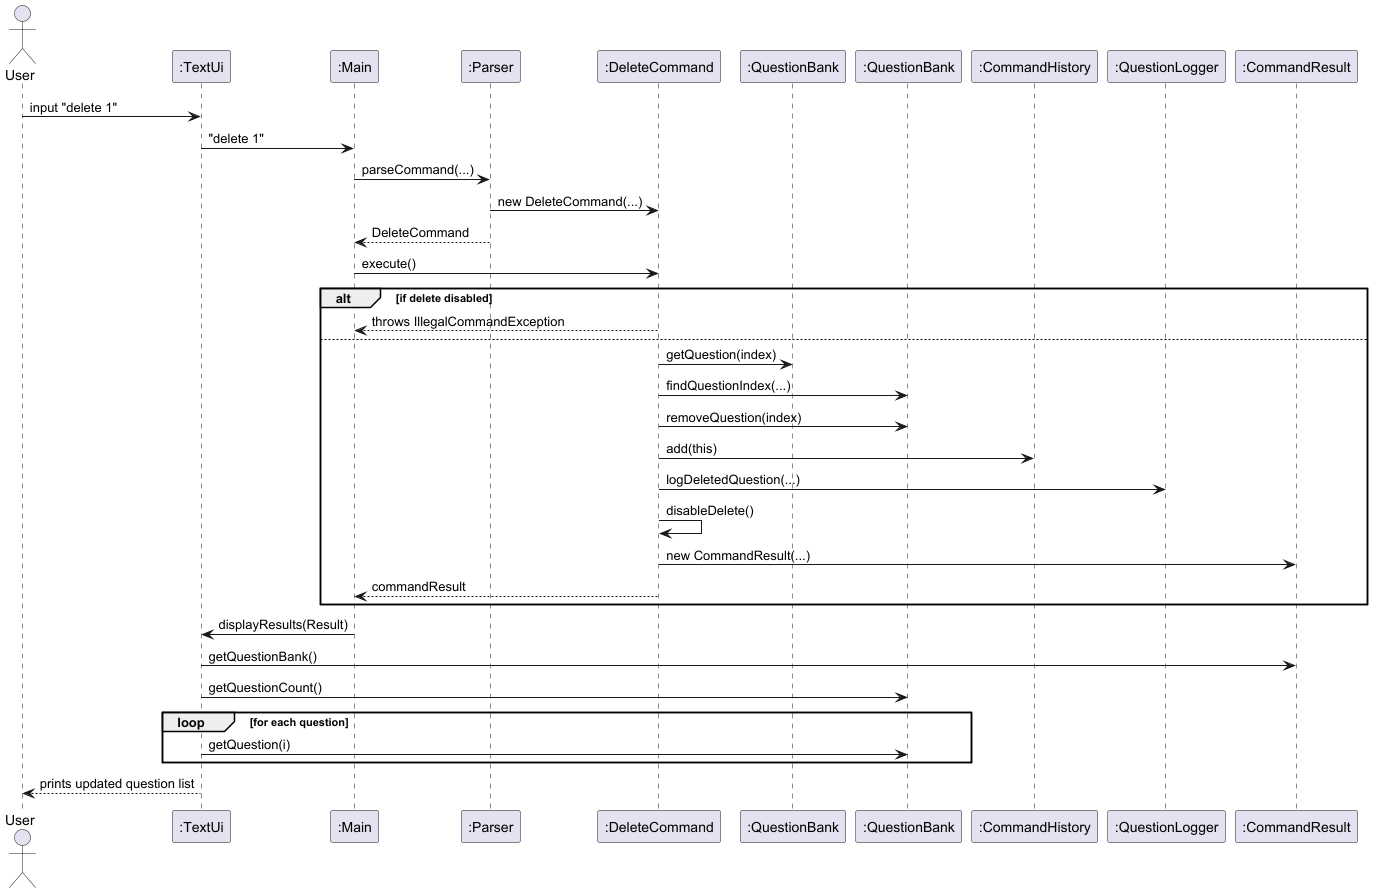
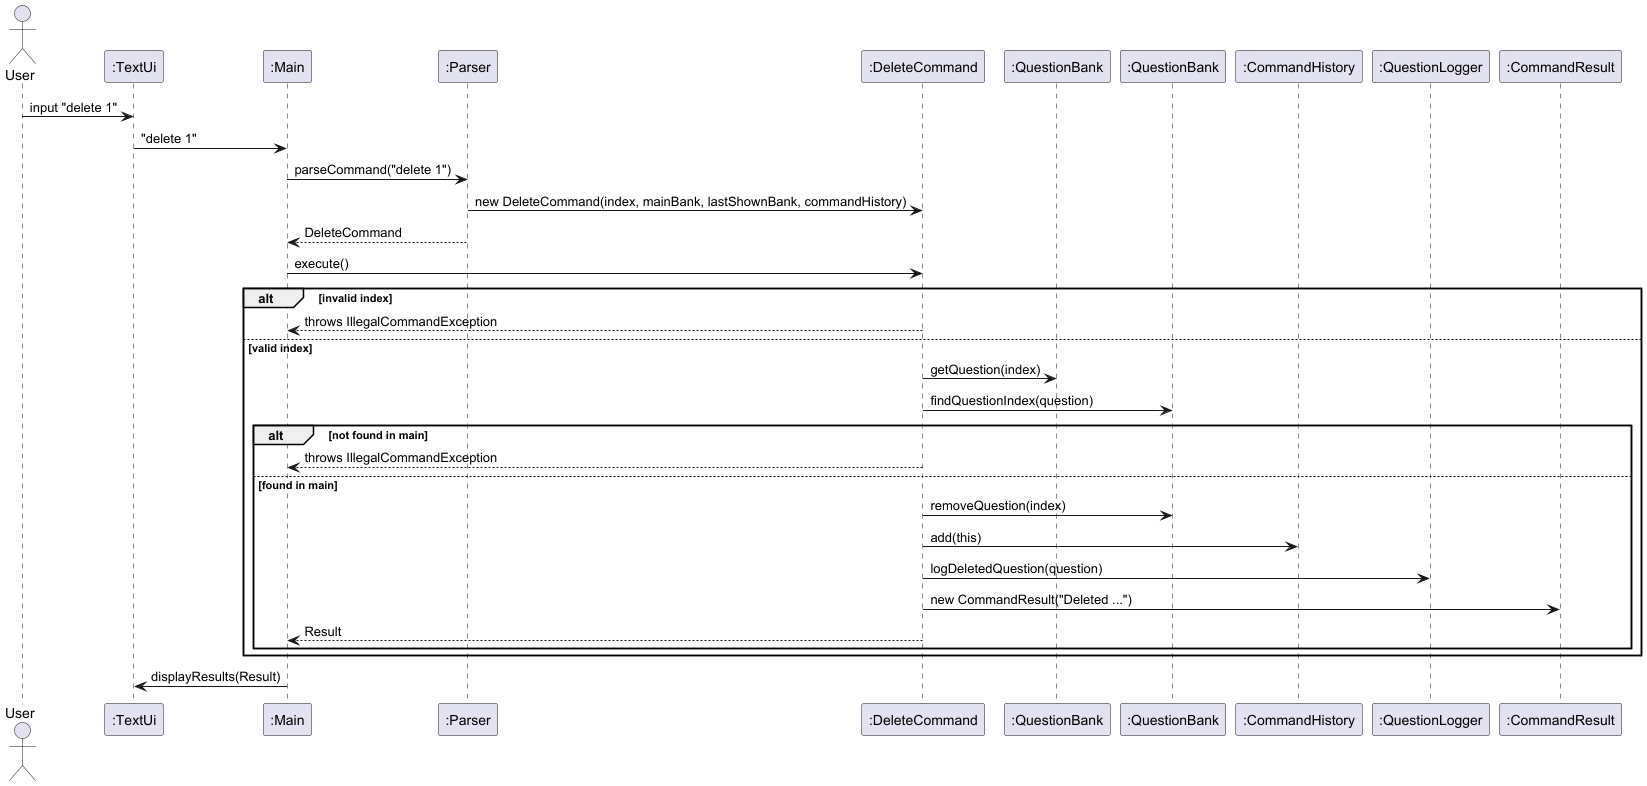
Refactors parser Updates docs

diff --git a/src/main/java/mindexpander/parser/Parser.java b/src/main/java/mindexpander/parser/Parser.java
@@ -63,17 +63,40 @@ public class Parser {
         case "list" -> handleList(userEntry, taskDetails, questionBank);
         case "find" -> handleFind(userEntry, taskDetails, questionBank);
         case "edit" -> handleEdit(userEntry, taskDetails, questionBank, lastShownQuestionBank, commandHistory);
-        case "delete" -> DeleteCommand.parseFromUserInput(taskDetails, questionBank,
-            lastShownQuestionBank, commandHistory);
+        case "delete" -> handleDelete(userEntry, taskDetails, questionBank, lastShownQuestionBank, commandHistory);
         case "undo" -> new UndoCommand(commandHistory);
         case "redo" -> new RedoCommand(commandHistory);
         case "show" -> handleShow(userEntry, taskDetails, questionBank, lastShownQuestionBank);
-        case "clear" -> ClearCommand.parseFromUserInput(taskDetails, questionBank, commandHistory);
+        case "clear" -> handleClear(userEntry, taskDetails, questionBank, commandHistory);
         default -> {
             ErrorLogger.logError(userEntry, Messages.UNKNOWN_COMMAND_MESSAGE);
             throw new IllegalCommandException(Messages.UNKNOWN_COMMAND_MESSAGE);
         }
         };
+    }
+
+    private Command handleDelete(String userEntry, String taskDetails, QuestionBank questionBank,
+                                 QuestionBank lastShownQuestionBank, CommandHistory commandHistory) {
+        if (taskDetails.isEmpty()) {
+            ErrorLogger.logError(userEntry, "Please provide a question index to delete.");
+            throw new IllegalCommandException("Please provide a question index to delete.");
+        }
+        try {
+            int index = Integer.parseInt(taskDetails.trim());
+            return new DeleteCommand(index, questionBank, lastShownQuestionBank, commandHistory);
+        } catch (NumberFormatException e) {
+            ErrorLogger.logError(userEntry, "Invalid number format. Please enter a valid index.");
+            throw new IllegalCommandException("Invalid number format. Please enter a valid index.");
+        }
+    }
+
+    private Command handleClear(String userEntry, String taskDetails, QuestionBank questionBank,
+                                CommandHistory commandHistory) {
+        if (!taskDetails.trim().isEmpty()) {
+            ErrorLogger.logError(userEntry, "The clear command does not take additional parameters.");
+            throw new IllegalCommandException("The clear command does not take additional parameters.");
+        }
+        return new ClearCommand(questionBank, commandHistory);
     }
 
     /**

diff --git a/src/test/java/mindexpander/tests/ClearCommandTest.java b/src/test/java/mindexpander/tests/ClearCommandTest.java
@@ -5,12 +5,10 @@ import mindexpander.commands.Command;
 import mindexpander.data.CommandHistory;
 import mindexpander.data.QuestionBank;
 import mindexpander.data.question.FillInTheBlanks;
-import mindexpander.exceptions.IllegalCommandException;
 import org.junit.jupiter.api.BeforeEach;
 import org.junit.jupiter.api.Test;
 
 import static org.junit.jupiter.api.Assertions.assertEquals;
-import static org.junit.jupiter.api.Assertions.assertThrows;
 
 public class ClearCommandTest {
     private QuestionBank questionBank;
@@ -53,15 +51,6 @@ public class ClearCommandTest {
         Command resultCommand = clearCommand.handleMultistepCommand("n");
         assertEquals("Clear command cancelled.", resultCommand.getCommandMessage());
         assertEquals(1, qb.getQuestionCount());
-    }
-
-
-    @Test
-    public void testClearCommandInvalidInputThrowsException() {
-        IllegalCommandException exception = assertThrows(IllegalCommandException.class, () ->
-                ClearCommand.parseFromUserInput("clear now", questionBank, history)
-        );
-        assertEquals("Invalid usage. Just type: clear", exception.getMessage());
     }
 
 }

diff --git a/src/main/java/mindexpander/commands/DeleteCommand.java b/src/main/java/mindexpander/commands/DeleteCommand.java
@@ -55,19 +55,6 @@ public class DeleteCommand extends Command implements Traceable {
         return new CommandResult("Deleted question: " + deletedQuestion);
     }
 
-    public static DeleteCommand parseFromUserInput(String taskDetails, QuestionBank main,
-                                                   QuestionBank lastShown, CommandHistory commandHistory) {
-        if (taskDetails.isEmpty()) {
-            throw new IllegalCommandException("Please provide a question index to delete.");
-        }
-        try {
-            int index = Integer.parseInt(taskDetails.trim());
-            return new DeleteCommand(index, main, lastShown, commandHistory);
-        } catch (NumberFormatException e) {
-            throw new IllegalCommandException("Invalid number format. Please enter a valid index.");
-        }
-    }
-
     @Override
     public void undo() {
         mainBank.addQuestionAt(targetIndex, deletedQuestion);

diff --git a/src/main/java/mindexpander/commands/ClearCommand.java b/src/main/java/mindexpander/commands/ClearCommand.java
@@ -3,7 +3,6 @@ package mindexpander.commands;
 import mindexpander.data.CommandHistory;
 import mindexpander.data.QuestionBank;
 import mindexpander.data.question.Question;
-import mindexpander.exceptions.IllegalCommandException;
 
 import java.util.ArrayList;
 import java.util.List;
@@ -47,14 +46,6 @@ public class ClearCommand extends Command implements Traceable, Multistep {
             }
         }
         return this;
-    }
-
-    public static ClearCommand parseFromUserInput(String taskDetails, QuestionBank mainBank,
-                                                  CommandHistory commandHistory) {
-        if (!taskDetails.trim().isEmpty()) {
-            throw new IllegalCommandException("Invalid usage. Just type: clear");
-        }
-        return new ClearCommand(mainBank, commandHistory);
     }
 
     @Override

diff --git a/docs/DeveloperGuide.md b/docs/DeveloperGuide.md
@@ -287,22 +287,57 @@ The sequence diagram when calling `show`:
 ![](diagrams/sequence/Show.png)
 
 ### Deleting a question
-* The `delete` command allows the user to remove a question from the question bank based on its index from the last shown list.
+* The `delete` command allows the user to remove a question from the question bank based on its index from the last shown list, which is managed via the `lastShownQuestionBank`.
 
-Delete Safeguard Logic:
-* After a successful deletion, further delete operations are disabled until the user explicitly runs `list` or `find` again. 
-* This is implemented using a static flag `isDeleteEnabled` inside `DeleteCommand`.
+### Index Mapping via Bumping Logic:
+* `delete` uses the index from `lastShownQuestionBank`, which is updated every time the user calls `list` or `find`.
+* Since `lastShownQuestionBank` is a shallow copy of the main `questionBank` at the time of the last listing, the system is able to bump the user's view forward — meaning:
+    * After a deletion, the next item in the list "moves up" (i.e. index 2 becomes index 1, and so on).
+    * This behavior is intuitive and expected when using `list`, as each deletion shortens the list and updates it implicitly.
 
-    * This ensures that users do not accidentally delete the wrong question from an outdated list.
+* However, this does not work reliably with `find`:
+    * If a user tries to delete multiple questions in a row using outdated indices from a `find`, the second delete might fail due to the backing question no longer existing in the main bank.
 
-    * If a user attempts to delete without refreshing the question list, an error is shown: 
-  ```Please run list or find to get an updated list before using delete.```
+### Case Comparison
 
-* Commands that re-enable deletion:
-    * `list`
-    * `find`
+**✅ Case A: Using `list` → `delete 1` → `delete 1` → `delete 1`**
+This works correctly because each time you call `list`, it updates the internal list (`lastShownBank`) that `delete` uses to identify questions.
 
-This safeguard is enforced in both normal and edge cases and has been unit tested in DeleteCommandTest.
+After each deletion, the remaining questions "move up" to the top of the list.
+
+**Example:**
+```
+list
+1. TF: Apple is red.
+2. TF: Sky is blue.
+3. TF: Water is wet.
+
+delete 1 → Deletes "Apple is red"
+delete 1 → Deletes "Sky is blue"
+delete 1 → Deletes "Water is wet"
+```
+
+**❌ Case B: Using `find` → `delete 1` → `delete 1` → `delete 1`**
+This will not work the same way. After the first delete, the question is removed from the actual database, but the filtered list (`lastShownBank`) is not refreshed.
+
+When `delete 1` is called again:
+- The app still looks at the original filtered list (which hasn't changed).
+- It tries to delete a question that no longer exists in the full list.
+- It fails with:
+```
+Unable to find question in main bank to delete.
+```
+
+### Expected Behavior:
+* The system allows consecutive deletions only if the index corresponds to a valid question in both `lastShownQuestionBank` and `mainBank`.
+* If a question is not found in the `mainBank` (e.g. already deleted), the system throws a clear error:
+```
+Unable to find question in main bank to delete.
+```
+
+### Developer Design Rationale:
+* It leans on the already well-defined `lastShownQuestionBank` architecture to keep deletion intuitive and simple.
+* It also reflects how most CLI tools work — users should update their view (`list`, `find`) if unsure.
 
 The sequence diagram when calling `delete`:
 ![](diagrams/sequence/Delete.png)
@@ -310,7 +345,7 @@ The sequence diagram when calling `delete`:
 ### Logging features
 
 MindExpander keeps track of several things to either help with product development in the future (e.g. error logging) or
-provide benefit to users (e.g. previously entered commands, questions that have been added and their attempts at solving questions).
+provide benefit to users (e.g. questions that have been added and their attempts at solving questions).
 
 The logger classes inherit from a parent `BaseLogger` class and contain static methods so they can be called easily
 in the program's features, for example the `SolveCommand` class can use `SolveAttemptLogger` log methods without needing to

diff --git a/docs/UserGuide.md b/docs/UserGuide.md
@@ -541,12 +541,14 @@ Question successfully edited: TF: Burgers are made of potatoes [Answer: false]
 ### Deleting a question: `delete`
 Removes a question from the question bank. The question index should refer to the index displayed by the most recent `list` or `find` command.
 
-Format: `delete [QUESTION_INDEX]`
+**Format:**  
+`delete [QUESTION_INDEX]`
 
-- `[QUESTION_INDEX]`: The number of the question to be deleted, as seen in the last shown list.
+- `[QUESTION_INDEX]`: The number of the question to be deleted, based on the latest shown list (either from `list` or `find`).
 
-Example usage:
+---
 
+#### ✅ Example usage (after `list`):
 ```
 list
 ==============================
@@ -557,6 +559,17 @@ delete 1
 Deleted question: FITB: 1 + 1 = __ [Answer: 2]
 ```
 
+You can run `list` again and delete the next question using `delete 1` again:
+```
+list
+1. FITB: The capital of France is __
+delete 1
+Deleted question: FITB: The capital of France is __ [Answer: Paris]
+```
+
+---
+
+#### Example usage (after `find`):
 ```
 find fitb 1 +
 ==============================
@@ -567,12 +580,34 @@ delete 2
 Deleted question: FITB: 1 + 2 = __ [Answer: 3]
 ```
 
-**Notes:**
-* The question index is based on the most recently displayed question list (via `list` or `find`).
-* Deletion is only allowed once after each `list` or `find` command. Attempting to delete again without refreshing the list will result in an error.
-* This safeguard prevents accidental multiple deletions using outdated indices.
-* This command is **single-step** and does not support multistep usage.
+---
 
+### Important Notes
+
+- The question index refers to the **most recently displayed question list**, either from `list` or `find`.
+- If you want to delete **multiple questions**, make sure to **refresh the list before each deletion** by re-running the `list` or `find` command.
+    - This is because after deleting, the displayed list is outdated — the indices may no longer point to the correct question.
+- If you try to delete again **without updating the list**, you may encounter this error:
+  ```
+  Unable to find question in main bank to delete.
+  ```
+
+---
+
+### Good Practice:
+If you're deleting multiple questions:
+
+**Using `list`:**
+```
+list → delete 1 → list → delete 1 → list → delete 1
+```
+
+**Using `find`:**
+```
+find fitb math → delete 1 → find fitb math → delete 1 → ...
+```
+
+This ensures the list is always updated and the deletion works as expected.
 ### Showing the answer to a specific question: `show`
 
 Shows the answer to a question in the question bank by querying its question index. The question index should refer to the index displayed by the most recent `list` or `find` command.

diff --git a/docs/team/Jensenkuok.md b/docs/team/Jensenkuok.md
@@ -29,9 +29,8 @@ Given below are my contributions to the project.
     * Updated commands to support TF functionality.
     * Included validation to ensure TF answers are strictly "true" or "false".
 
-  * Developed the full logic for `DeleteCommand`, including safety guard.
+  * Developed the full logic for `DeleteCommand`.
     * Created `DeleteCommand` to delete questions based on index from the last shown list.
-    * Implemented a static safety flag (`isDeleteEnabled`) to restrict delete usage only after `list` or `find` commands.
     * Added error handling for invalid delete attempts and invalid indices.
 
   * Implemented `ClearCommand` with confirmation logic and undo/redo.
@@ -59,7 +58,7 @@ Given below are my contributions to the project.
   
 * __Contributions to DG__
     * Storage: design rationale, file format, saving/loading logic, and delimiter handling.
-    * DeleteCommand: explanation of the delete safeguard logic, static flags, and user flow.
+    * DeleteCommand: explanation of the delete command, different delete cases and user flow.
     * InputValidator: integration with Add/Edit, exception management, and delimiter protection.
     * Question logging: overview, file structures, and real-world use cases.
     * Updated diagrams and wrote relevant sequences and data flow explanations to support maintainability by future developers.
